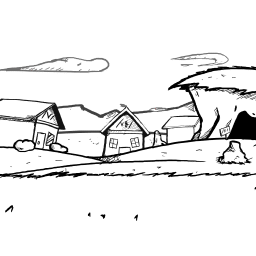
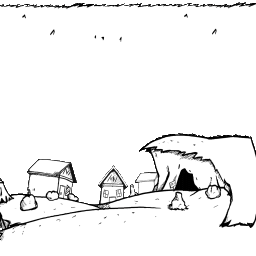
rework vtown

diff --git a/src/stage/vtown.c b/src/stage/vtown.c
@@ -1,26 +1,21 @@
-/*
-  This Source Code Form is subject to the terms of the Mozilla Public
-  License, v. 2.0. If a copy of the MPL was not distributed with this
-  file, You can obtain one at http://mozilla.org/MPL/2.0/.
-*/
-
 #include "vtown.h"
 
 #include "../archive.h"
 #include "../mem.h"
 #include "../stage.h"
 
-// /v/ town background structure
+//Week 1 background structure
 typedef struct
 {
 	//Stage background base structure
 	StageBack back;
 	
 	//Textures
-	Gfx_Tex tex_back0; //Uhh everything
+	Gfx_Tex tex_back0; //Stage and back
+	Gfx_Tex tex_back1; //Sky
 } Back_Vtown;
 
-// /v/ town 1 background functions
+//Week 1 background functions
 void Back_Vtown_DrawBG(StageBack *back)
 {
 	Back_Vtown *this = (Back_Vtown*)back;
@@ -31,13 +26,12 @@ void Back_Vtown_DrawBG(StageBack *back)
 	fx = stage.camera.x;
 	fy = stage.camera.y;
 	
-	//Draw window light
-	RECT stage_src = {0, 128, 256, 128};
+	RECT stage_src = {0, 0, 256, 81};
 	RECT_FIXED stage_dst = {
-		FIXED_DEC(-130,1) - fx,
-		FIXED_DEC(44,1) - fy,
-		FIXED_DEC(350,1),
-		FIXED_DEC(148,1)
+		FIXED_DEC(-255,1) - FIXED_DEC(SCREEN_WIDEOADD,2) - fx,
+		FIXED_DEC(30,1) - fy,
+		FIXED_DEC(450,1) + FIXED_DEC(SCREEN_WIDEOADD,1),
+		FIXED_DEC(115,1)
 	};
 	
 	Stage_DrawTex(&this->tex_back0, &stage_src, &stage_dst, stage.camera.bzoom);
@@ -46,19 +40,23 @@ void Back_Vtown_DrawBG(StageBack *back)
 	fx = stage.camera.x * 2 / 3;
 	fy = stage.camera.y * 2 / 3;
 	
-	RECT backl_src = {0, 59, 121, 105};
+	RECT backl_src = {0, 59, 256, 197};
 	RECT_FIXED backl_dst = {
-		FIXED_DEC(-190,1) - fx,
-		FIXED_DEC(-100,1) - fy,
-		FIXED_DEC(121,1),
-		FIXED_DEC(105,1)
+		FIXED_DEC(-250,1) - fx,
+		FIXED_DEC(-230,1) - fy,
+		FIXED_DEC(450,1),
+		FIXED_DEC(350,1)
 	};
-	RECT backr_src = {121, 59, 136, 120};
+
+	fx = stage.camera.x * 1 / 3;
+	fy = stage.camera.y * 1 / 3;
+
+	RECT backr_src = {0, 0, 256, 173};
 	RECT_FIXED backr_dst = {
-		FIXED_DEC(60,1) - fx,
-		FIXED_DEC(-110,1) - fy,
-		FIXED_DEC(136,1),
-		FIXED_DEC(120,1)
+		FIXED_DEC(-250,1) - fx,
+		FIXED_DEC(-200,1) - fy,
+		FIXED_DEC(450,1),
+		FIXED_DEC(350,1)
 	};
 	RECT backf_src = {0, 59, 1, 1};
 	RECT backf_dst = {
@@ -69,7 +67,7 @@ void Back_Vtown_DrawBG(StageBack *back)
 	};
 	
 	Stage_DrawTex(&this->tex_back0, &backl_src, &backl_dst, stage.camera.bzoom);
-	Stage_DrawTex(&this->tex_back0, &backr_src, &backr_dst, stage.camera.bzoom);
+	Stage_DrawTex(&this->tex_back1, &backr_src, &backr_dst, stage.camera.bzoom);
 	Gfx_DrawTex(&this->tex_back0, &backf_src, &backf_dst);
 }
 
@@ -97,6 +95,7 @@ StageBack *Back_Vtown_New(void)
 	//Load background textures
 	IO_Data arc_back = IO_Read("\\WEEK8\\BACK.ARC;1");
 	Gfx_LoadTex(&this->tex_back0, Archive_Find(arc_back, "back0.tim"), 0);
+	Gfx_LoadTex(&this->tex_back1, Archive_Find(arc_back, "back1.tim"), 0);
 	Mem_Free(arc_back);
 	
 	return (StageBack*)this;
